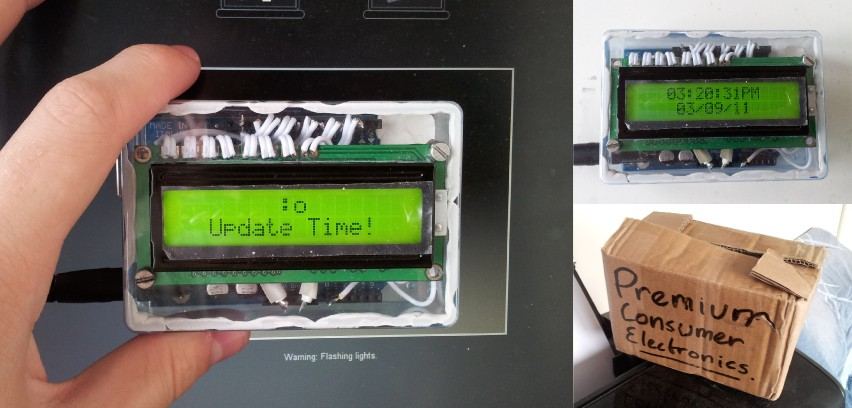
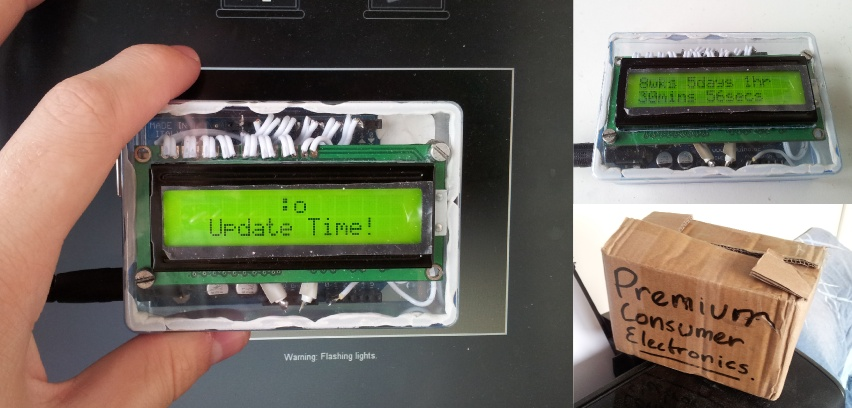
Partial draft.

Changed region(s): [[0.6714, 0.0588, 1.0, 0.5]]

diff --git a/README.rst b/README.rst
@@ -1,8 +1,47 @@
 Clockie
 =======
 
-.. image:: https://raw.github.com/mossblaser/Clockie/master/images/moneyshot.jpg
+Clockie is a really simple clock I made for Ann-Marie (my girlfriend) when she
+moved away for her master's degree. It is based on an Arduino and a simple LCD
+character display and features a countdown until we next meet (d'awwwww).  The
+time (and the date of our next meeting) is set by holding it up to a web page
+which literally flashes the time at a light sensor on the back of the clock.
 
-Clockie is a really simple clock I made for my girlfriend when she moved away
-for her master's degree. It is based on an Arduino and a simple character
-display and features a countdown until we next meet (d'awwwww).
+.. figure:: https://raw.github.com/mossblaser/Clockie/master/images/moneyshot.jpg
+	
+	Clockie being set (left), showing the countdown (top right) and its
+	presentation gift-box (bottom right).
+
+Why?
+----
+
+When I designed Clockie I was temporarily living in Sheffield for my summer job
+at ARM and so only had a handful of components available. In particular, I
+didn't have a real-time clock or anything for building an efficient
+battery-powered device. As a result Clockie forgets the time every time its
+unplugged and must be set again. Without any buttons to hand and
+motivated further by my dislike of every button-based digital clock setting
+interface I've ever used, I decided on using a computer to set the time.
+
+Unfortunately, Ann-Marie is a Windows user and I didn't fancy writing and
+testing a piece of software for communicating with the clock over USB for a
+platform I don't use. Also, who wants to find a USB cable lying about just to
+set your clock? Inspired by the blinding glow of opening a white terminal window
+in a dark room late at night I realised I could use a web page and a light
+sensor to interface with the computer.
+
+Building Hardware
+-----------------
+
+Clockie is made out of:
+
+* An Arduino I had lying around (funnily enough this board was very first
+  microcontroller I ever bought).
+* A super-cheap green HD44780-compatible LCD display off ebay (because
+  Ann-Marie's favourite colour is green...).
+* An LDR (light-dependant resistor, not long distance relationship...)
+* A random plastic case I had lying around
+
+.. figure:: https://raw.github.com/mossblaser/Clockie/master/images/case.jpg
+	
+	Making the case.
